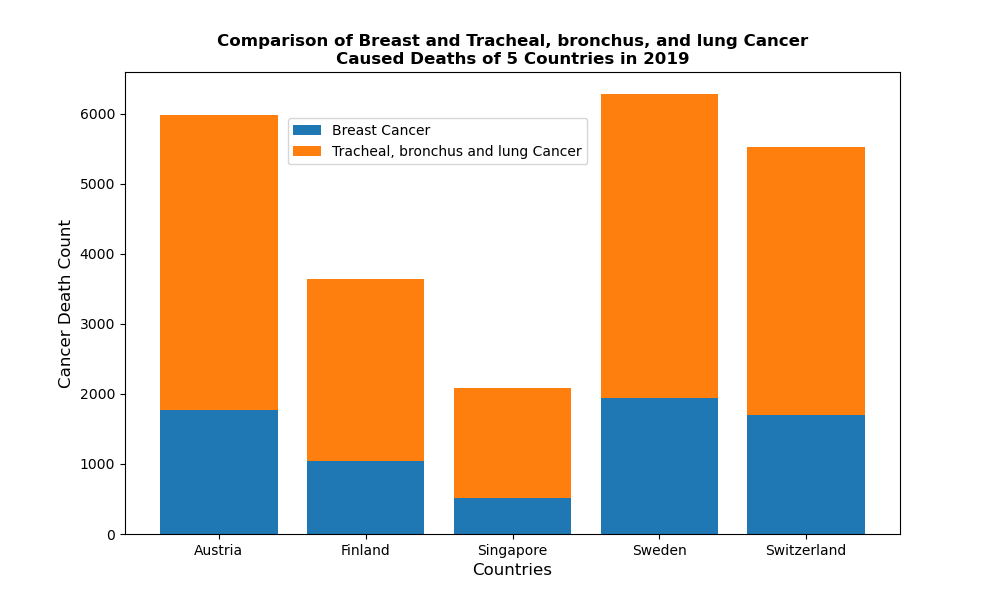
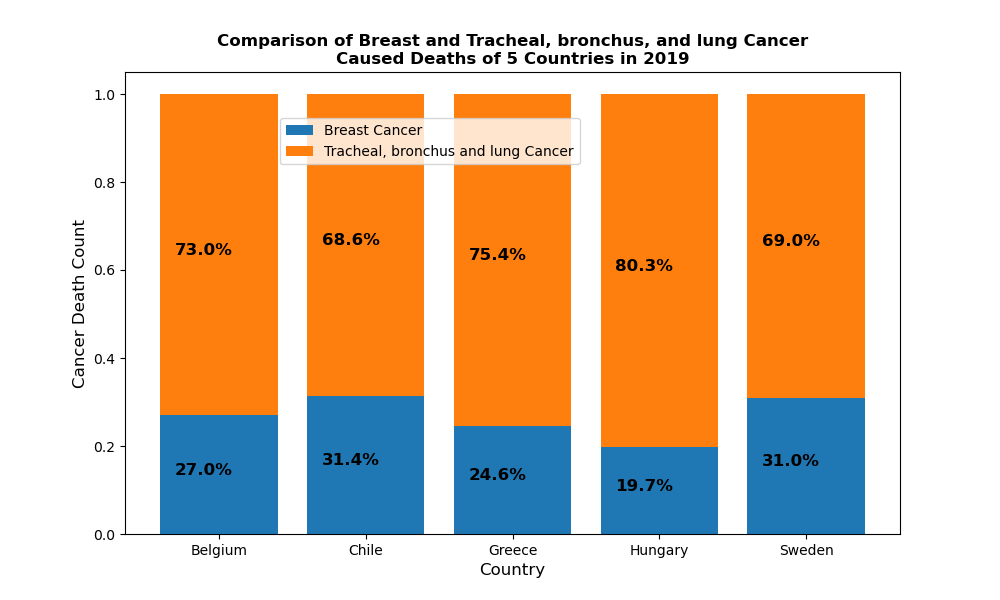
final

diff --git a/Data_Visualization.py b/Data_Visualization.py
@@ -6,40 +6,92 @@ import matplotlib.pyplot as plt
 
 
 def LinePlot(xaxis):
+    """
+    Drawing a line plot to show the change in total number of
+    cancer deaths in the selected countries for the selected years
+
+    Args: 
+        xaxis: the range or list of years
+
+    """
     for c in country:
-        # Total cancer deaths of each year
-        yaxis = list(cancer_df[cancer_df['Country'] == c]['Total'])
-        plt.figure(1, figsize=(10, 6))
-        plt.plot(xaxis, yaxis, label=c, marker='o')
+        """ The total number of cancer deaths in a certain year in a 
+        selected set of nations, for example, is displayed against 2010 and 
+        similarly in each rotation """
+        year_total = list(cancer_df[cancer_df['Country'] == c]['Total'])
+
+        # plot the line
+        plt.figure(1, figsize=(12, 6))
+        plt.plot(xaxis, year_total, label=c, marker='o')
+
+        # set x-axis and y-axis limits
         plt.xlim([2010, 2019])
-        plt.ylim([486, 980])
-        plt.xticks(np.arange(2010, 2020))
-        plt.yticks(np.arange(450, 1000, 50))
+        # plt.ylim([486, 980])
+
+        # set the ticks on both axes
+        plt.xticks(year)
+        # plt.yticks(np.arange(450, 1000, 50))
+
+        # set the title and axes labels
         plt.title('Cancer attributed Deaths of 5 Countries (2010-2019)',
                   fontsize=15, fontweight='bold')
         plt.xlabel('Year', fontsize=12)
         plt.ylabel('Total Cancer Deaths', fontsize=12)
 
-    plt.legend(loc='best')
-    plt.savefig('CancerVsCountry.png')
-    plt.show()
+    plt.legend(loc='best', bbox_to_anchor=(1, 0.4))  # set the legends
+    plt.savefig('CancerVsCountry.png')  # save the figure
+    plt.show()  # show the plot
 
 
 def StackedBarPlot(xaxis, yaxis1, yaxis2):
+    """ Construct a stacked bar plot represent
+
+    Args:
+        xaxis (Series): the set of countries to be compared
+        yaxis1 (Series): number of deaths by breast cancer
+        yaxis2 (Series): number of deaths by Tracheal, bronchus,
+                    and lung cancer
+    """
     plt.figure(2, figsize=(10, 6))
     plt.bar(xaxis, yaxis1, label='Breast Cancer')
     plt.bar(xaxis, yaxis2,
             bottom=yaxis1, label='Tracheal, bronchus and lung Cancer')
     plt.title('Comparison of Breast and Tracheal, bronchus, and lung Cancer'+'\n'
               + 'Caused Deaths of 5 Countries in 2019', fontweight='bold')
-    plt.xlabel('Countries', fontsize=12)
+    plt.xlabel('Country', fontsize=12)
     plt.ylabel('Cancer Death Count', fontsize=12)
-    plt.legend(loc=(0.210, 0.8))
+
+    # Determine the percentages of each cancer type in each country
+    total_cases = yaxis1 + yaxis2
+    prop_breast_cancer = list(np.round(yaxis1 / total_cases * 100, 1))
+    prop_tracheal_etc = list(np.round(yaxis2 / total_cases * 100, 1))
+
+    # Determine the y values of the text labels
+    y_values_breast = yaxis1 / 2
+    y_values_tracheal = yaxis1 + yaxis2 / 2
+    # Add the text labels to the plot
+    for i in range(len(xaxis)):
+        plt.text(x=i - 0.3, y=y_values_breast.to_list()[i],
+                 s=f'{prop_breast_cancer[i]}%',
+                 fontsize=12, fontweight="bold")
+        plt.text(x=i - 0.3, y=y_values_tracheal.to_list()[i],
+                 s=f'{prop_tracheal_etc[i]}%',
+                 fontsize=12, fontweight="bold")
+    plt.legend(loc=(0.2, 0.8))
     plt.savefig('Breast_cancer_Vs_Lung_cancer.png')
     plt.show()
 
 
 def PieChart(grp_values, grp_types):
+    """ Contruct a pie chart showing the worldwide distribution of cancer caused
+        deaths and its types
+
+    Args:
+        grp_values (list): list of global death count in each type of cancer, 
+                where the ones lower that the given threshold is added to a single value
+        grp_types (list): list of cancer types, 
+                where the ones below the threshold value is grouped as 'Others'
+    """
     plt.figure(3, figsize=(12, 6))
     plt.pie(grp_values, labels=grp_types, autopct='%1.1f%%', pctdistance=0.8)
     plt.title(
@@ -52,8 +104,7 @@ def PieChart(grp_values, grp_types):
 
 
 # Reading the csv file
-cancer = pd.read_csv(
-    r"C:\Users\sandr\Documents\Assignment\Dataset\total-cancer-deaths-by-type.csv")
+cancer = pd.read_csv(r"Dataset\total-cancer-deaths-by-type.csv")
 
 # Renamed the column names for easy access
 cancer.columns = ['Country', 'Code', 'Year', 'Liver', 'Kidney',
@@ -73,7 +124,7 @@ cancer.columns = ['Country', 'Code', 'Year', 'Liver', 'Kidney',
 cancer2010_19 = cancer[(cancer['Year'] >= 2010) & (cancer['Year'] <= 2019)]
 
 # Selecting 5 Countries randomly and forming a list
-country = ['Sweden', 'Switzerland', 'Austria', 'Singapore', 'Finland']
+country = ['Sweden', 'Chile', 'Hungary', 'Belgium', 'Greece']
 
 # Filtering the dataframe into these 5 countries records
 cancer_df = cancer2010_19[cancer2010_19['Country'].isin(country)]
@@ -81,11 +132,12 @@ cancer_df = cancer2010_19[cancer2010_19['Country'].isin(country)]
 # Reseting the index for the filtered dataframe cancer_df
 cancer_df = cancer_df.reset_index()
 
-# Creating a new column 'Total' which adds up the values
-#                     of all cancer types of these 5 countries
-# This is done for drawing the line plot of the total cancer deaths of
-#            these 5 countries in the given years
-cancer_df['Total'] = cancer_df.loc[:, ['Liver', 'Mesothelioma']].sum(axis=1)
+'''Creating a new column 'Total' which adds up the values
+    of all cancer types of these 5 countries.
+This is done for drawing the line plot of the total cancer deaths of
+    these 5 countries in the given years '''
+selected_columns = cancer_df.columns[cancer_df.columns.get_loc('Liver'):]
+cancer_df['Total'] = cancer_df[selected_columns].sum(axis=1)
 
 # list of selected years ie., 2010 to 2019
 year = np.arange(2010, 2020)
@@ -93,22 +145,32 @@ year = np.arange(2010, 2020)
 # Filtering the dataframe cancer_df for the year 2019
 cancer19 = cancer_df[cancer_df['Year'] == 2019]
 
-# Creating a new Dataframe with data of all countries and all
-#                  cancer type deaths of a single year(2019)
+'''Creating a new Dataframe with data of selected countries and all
+    cancer type deaths of a single year(2019) '''
 cancer_19 = cancer[cancer['Year'] == 2019]
+
+''' Filter the above dataframe to create a dataframe of breast cancer and
+     tracheal,bronchus and lung cancer'''
+cancer_bl = cancer19[['Country', 'Breast', 'Tracheal, bronchus, and lung']]
+
+# adding columns showing proportion of breast cancer and lung cancer of each country
+cancer_bl['b_prop'] = cancer_bl['Breast'] / \
+    (cancer_bl['Breast']+cancer_bl['Tracheal, bronchus, and lung'])
+cancer_bl['l_prop'] = cancer_bl['Tracheal, bronchus, and lung']/(
+    cancer_bl['Breast']+cancer_bl['Tracheal, bronchus, and lung'])
 
 # List of cancer types
 cancer_types = cancer_19.columns[3:]
 
-# Creating a new row 'Grand Total' which gives the type wise total
-#                      deaths in the year 2019
+''' Creating a new row 'Grand Total' which gives the type wise total
+    deaths in the year 2019 '''
 cancer_19.loc['Grand Total'] = cancer_19[cancer_types].sum(axis=0)
 
 # list of total deaths caused by each cancer type
 values = list(cancer_19.loc['Grand Total'][3:])
 
-# setting a threshold for creating a pie 'others' so that the cancer
-#      types causing deaths less than 1400000 comes under this pie
+''' setting a threshold for creating a pie 'others' so that the cancer
+    types causing deaths less than 1400000 comes under this pie '''
 threshold = 1400000
 
 grp_values = []  # creating an empty list for grouped values
@@ -116,25 +178,28 @@ grp_types = []   # creating an empty list for grouped types
 
 low_values = 0  # setting a variable low_value as 0
 
-# starting a for loop to loop through the list of cancer types
-#              and its values to compare it with the threshold set
+''' starting a for loop to loop through the list of cancer types
+    and its values to compare it with the threshold set '''
 for i in range(len(cancer_types)):
-    if values[i] < threshold:  # to check the condition of death count and threshold
-        low_values += values[i]  # if less then added with low_values
+    ''' to check the condition of death count and threshold
+        if less then added with low_values '''
+    if values[i] < threshold:
+        low_values += values[i]
     else:
-        # else added to the list of grouped values
+        # else added to the list of grouped values and types
         grp_values.append(values[i])
-        grp_types.append(cancer_types[i])  # and types
+        grp_types.append(cancer_types[i])
 
-grp_values.append(low_values)   # the newly created set of low values
-grp_types.append('Others')  # appended to the list as 'Others'
+# newly created set of low values appended to the list as 'Others'
+grp_values.append(low_values)
+grp_types.append('Others')
 
 # calling line plot function
 LinePlot(year)
 
 # calling stacked bar plot function
-StackedBarPlot(cancer19['Country'], cancer19['Breast'],
-               cancer19['Tracheal, bronchus, and lung'])
+StackedBarPlot(cancer19['Country'], cancer_bl['b_prop'],
+               cancer_bl['l_prop'])
 
 # calling pie plot function
 PieChart(grp_values, grp_types)
